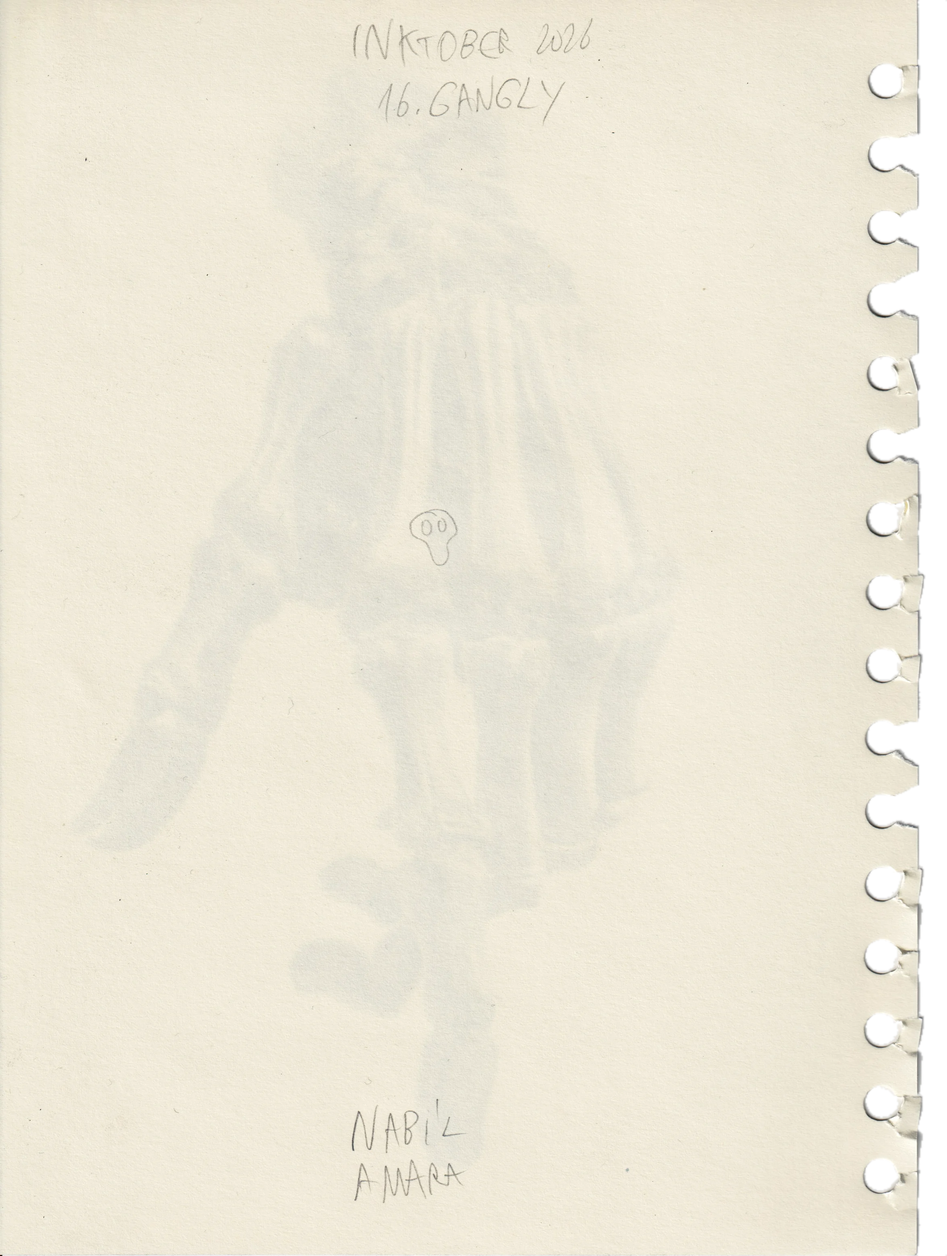
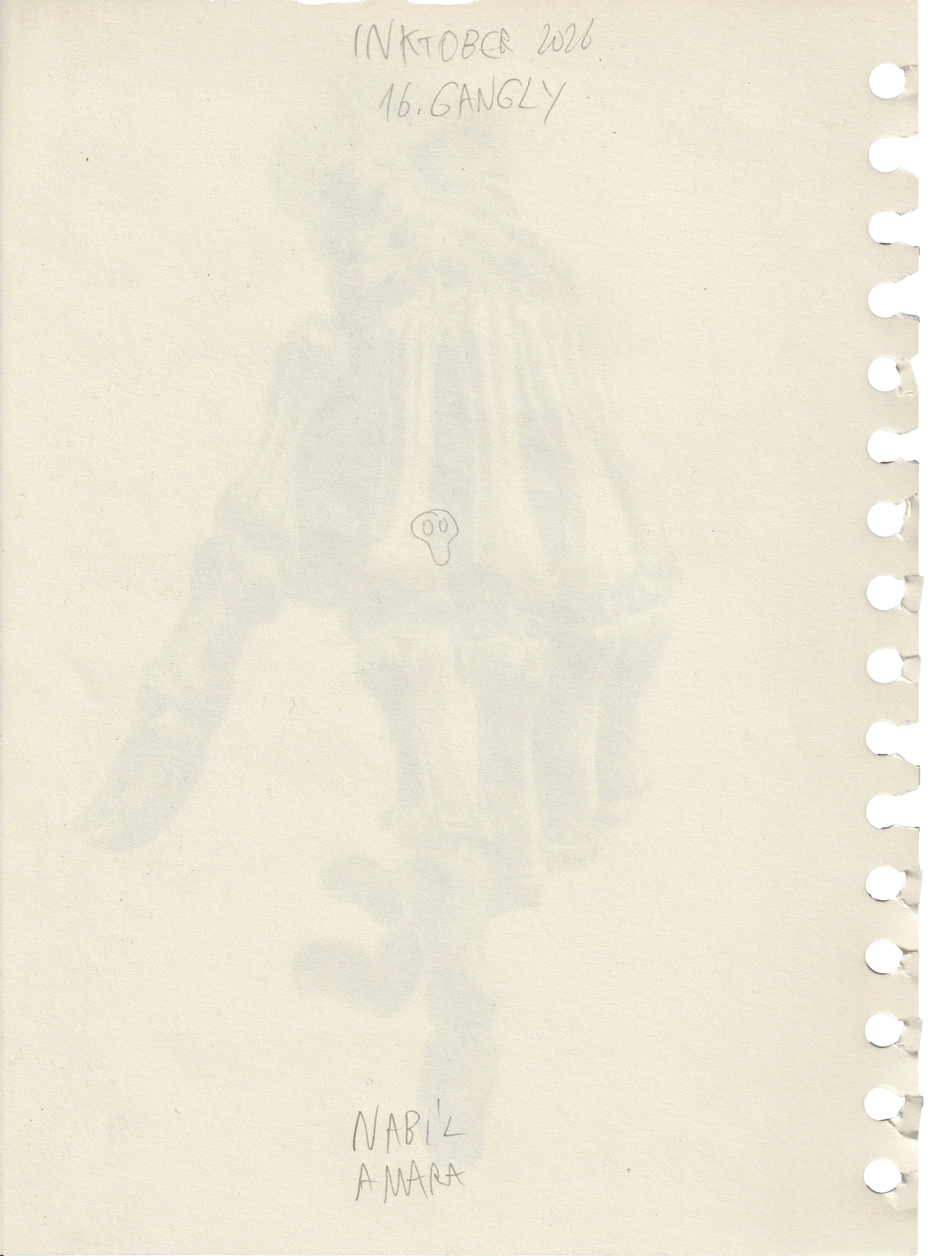
No picture-in-picture on the making videos (paused while the tab is hidden); Gangly verso from the 2 Nov cutout
Claude-Session: https://claude.ai/code/session_01KmK7bAD47hAaRb54aSaV3E

diff --git a/index.html b/index.html
@@ -1687,7 +1687,8 @@ const vGlow=document.getElementById("vglow"), vMk=document.getElementById("vmk")
 { const sz=M.size; M.size=()=>{ sz(); for(const n of [vGlow,vMk]){ n.style.setProperty("--cw",vW+"px"); n.style.setProperty("--ch",vH+"px"); } }; }
 let mkT=0, mkI=0, mkSide=0;
 /* a film: muted, looping, inline; its first frame shows until it plays */
-function mkVid(base){ let v=vMk.querySelector("video"); if(!v){ v=document.createElement("video"); v.muted=true; v.loop=true; v.playsInline=true; v.setAttribute("playsinline",""); v.setAttribute("muted",""); v.preload="auto"; vMk.appendChild(v); }
+document.addEventListener("visibilitychange",()=>{ const v=vMk&&vMk.querySelector("video"); if(!v) return; if(document.hidden){ if(!v.paused){ v.pause(); v._hid=true; } } else if(v._hid){ v._hid=false; v.play().catch(()=>{}); } });
+function mkVid(base){ let v=vMk.querySelector("video"); if(!v){ v=document.createElement("video"); v.muted=true; v.loop=true; v.playsInline=true; v.setAttribute("playsinline",""); v.setAttribute("muted",""); v.disablePictureInPicture=true; v.setAttribute("disablepictureinpicture",""); v.disableRemotePlayback=true; v.preload="auto"; vMk.appendChild(v); }   /* no picture-in-picture: Chrome/Safari would pop the making video out when the tab goes to the background */
   const src=`${base}.mp4`; if(v._src!==src){ v._src=src; v.src=src; }
   vMk.querySelectorAll("i").forEach(e=>e.classList.remove("on")); v.classList.add("on"); try{ v.currentTime=0; }catch(e){} const pr=v.play(); if(pr&&pr.catch) pr.catch(()=>{}); }
 function mkVidOff(){ const v=vMk.querySelector("video"); if(v){ v.classList.remove("on"); v.pause(); } }
